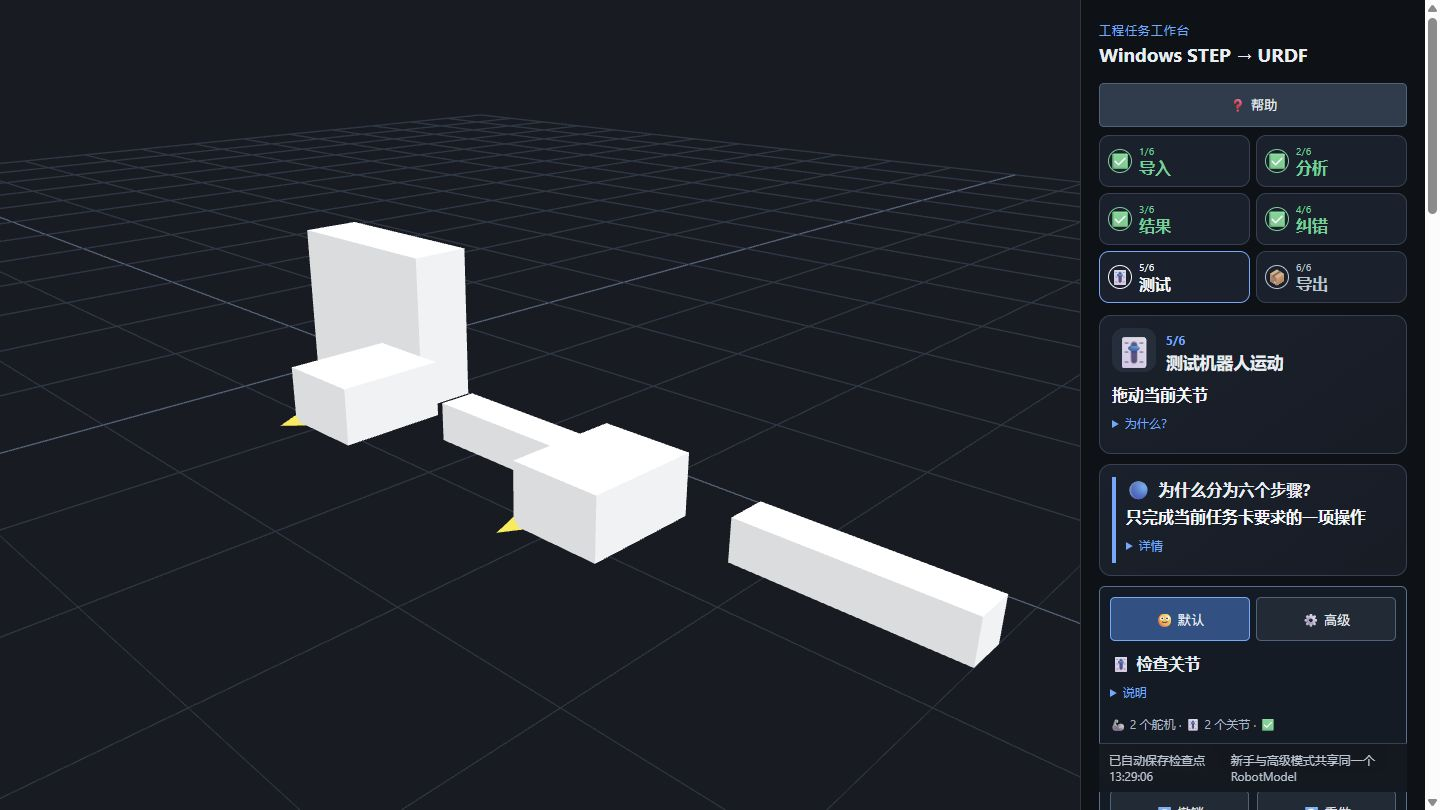
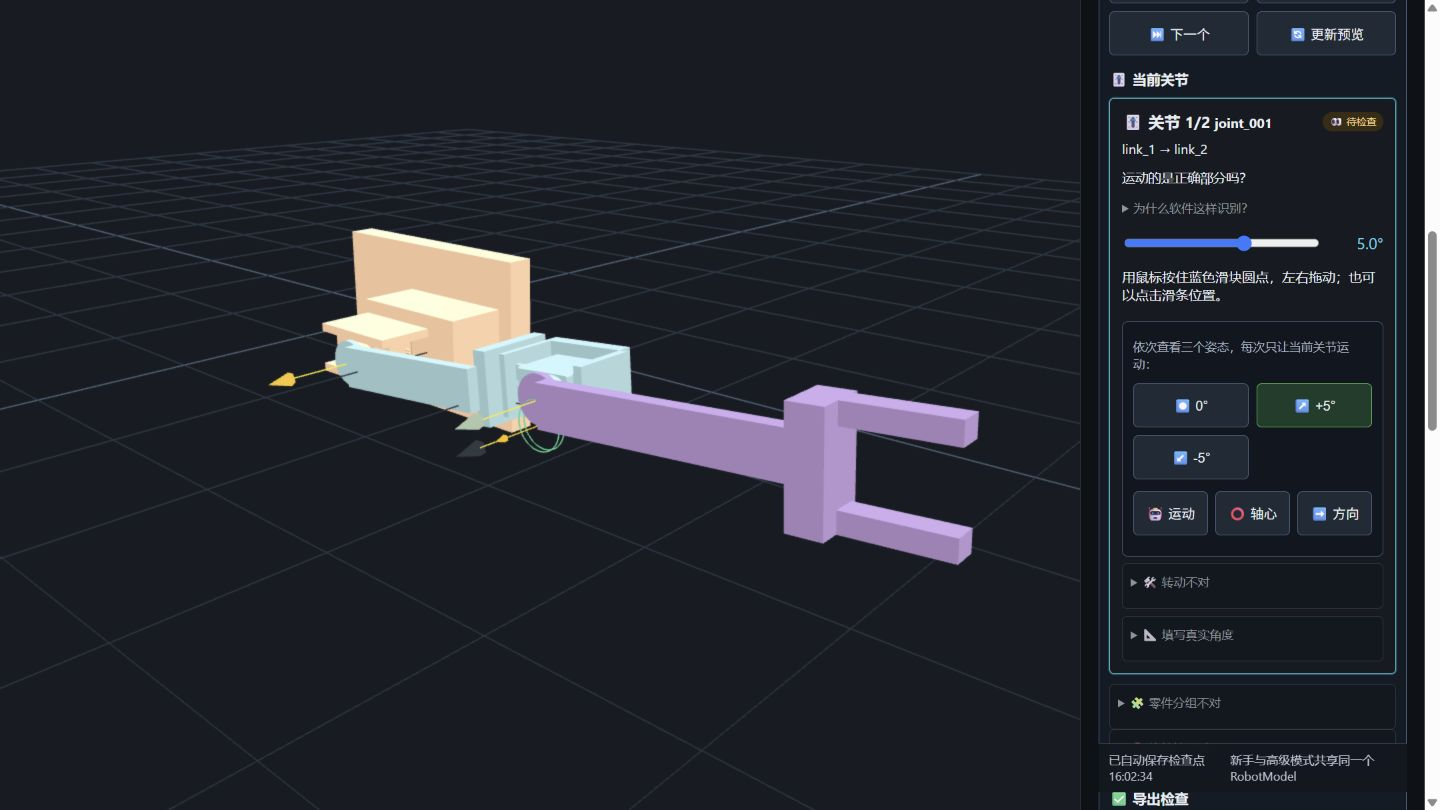
docs: showcase licensed servo example

diff --git a/docs/open-source/THIRD_PARTY_AUDIT.md b/docs/open-source/THIRD_PARTY_AUDIT.md
@@ -2,6 +2,6 @@
 
 Runtime dependencies are installed from npm and PyPI lock/requirements files; no third-party repository source tree is vendored. The upstream `urdf-loaders` Apache-2.0 license is retained under `licenses/` for provenance. Direct dependencies and their roles are documented in `THIRD_PARTY_NOTICES.md`.
 
-The public example and screenshots are generated entirely from repository code. No external font, icon pack, CAD model, or private visual asset is included.
+The public AP242 example uses one pinned MIT-licensed SG51R body definition from `adafruit/Adafruit_CAD_Parts` commit `ab3dfc47c32468ba87e7652556cab25efd906eb0`. Its exact license, source path, raw URL, and SHA-256 are preserved under `third_party/adafruit_sg51r/`. Two occurrences are composed with original deterministic horn, bracket, link, and base geometry generated by this repository. No private CAD, external font, or icon pack is included.
 
 Binary Windows redistribution is not yet offered. A future bundled OCP/OCCT runtime must include the applicable LGPL-2.1 text, Open CASCADE exception, notices, and relinking/source rights required by that license.

diff --git a/THIRD_PARTY_NOTICES.md b/THIRD_PARTY_NOTICES.md
@@ -56,6 +56,23 @@ test suite, including generated AP242 XCAF hierarchy import, exact B-Rep
 interrogation, meshing and mass properties.
 The converter does not call any VTK API.
 
+## Adafruit SG51R servo CAD
+
+- Repository: https://github.com/adafruit/Adafruit_CAD_Parts
+- Commit: `ab3dfc47c32468ba87e7652556cab25efd906eb0`
+- Source path: `2201 Submicro servo/2201 Submicro Servo SG51R.step`
+- Vendored path: `third_party/adafruit_sg51r/2201_Submicro_Servo_SG51R.step`
[1 lines of base64/hex data omitted]
+- License: MIT
+- Copyright: 2016 Adafruit Industries
+
+The pinned body geometry makes the public two-joint workflow example visually
+recognizable as a servo mechanism. The repository generates the horns,
+brackets, links, occurrence transforms, and AP242 assembly around two instances
+of that definition. The exact upstream license and provenance are preserved in
+`third_party/adafruit_sg51r/`; the example is not a production dimensional
+compatibility claim.
+
 ## Other npm dependencies
 
 The exact graph is recorded in `package-lock.json`. Direct dependencies

diff --git a/README.md b/README.md
@@ -38,7 +38,7 @@ cd windows-step-to-urdf
 
 That launcher is the one command needed after checkout. On first run it creates an isolated Python environment under `%LOCALAPPDATA%\STEPtoURDF`, installs locked web dependencies, starts a local service, and opens the browser. The application binds to `127.0.0.1` only.
 
-Want to explore without CAD data? Click **🧪 Example**. The included two-joint AP242 file is generated specifically for this repository.
+Want to explore without CAD data? Click **🧪 Example**. The included two-joint AP242 assembly uses two instances of an MIT-licensed public SG51R servo body plus repository-generated horns, brackets, and links. Exact provenance is in [Third-party notices](THIRD_PARTY_NOTICES.md).
 
 ## 🧭 Workflow
 
